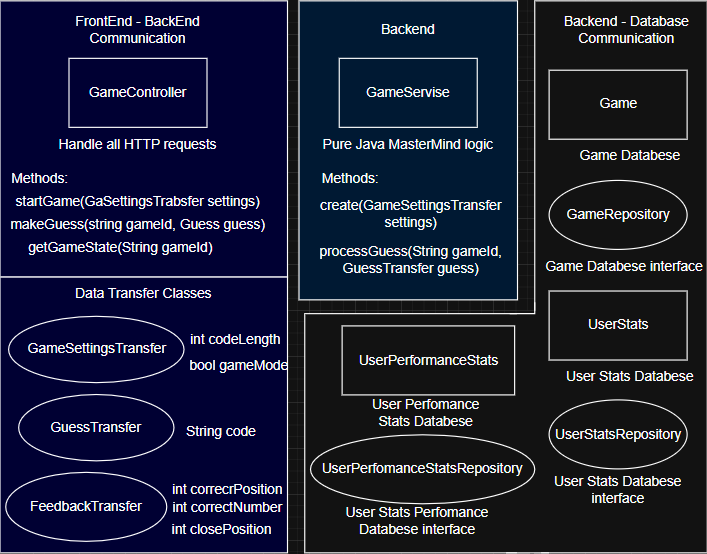
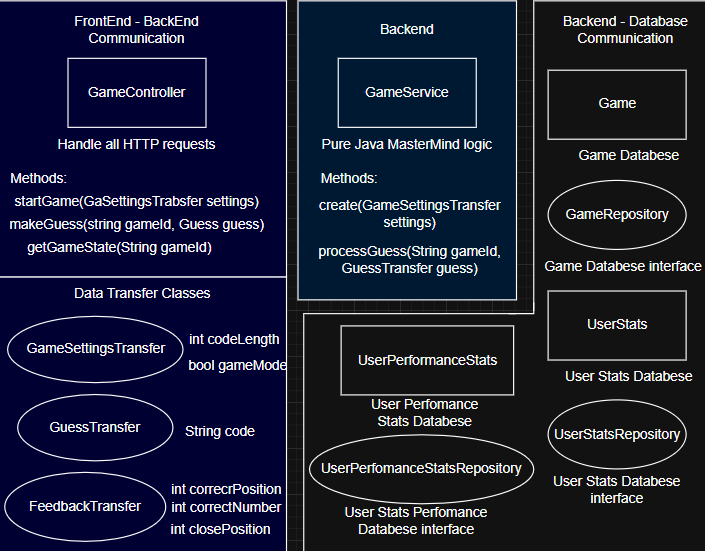
Data Transfer Classes

diff --git a/masterminddemo/src/main/java/com/mastermind/masterminddemo/GameService.java b/masterminddemo/src/main/java/com/mastermind/masterminddemo/GameService.java
@@ -4,13 +4,13 @@ import java.util.ArrayList;
 import java.util.Arrays;
 import java.util.List;
 
-public class Engine {
+public class GameService{
     private final int[] secretCode;
     private final int[] currentGuess;
     private final boolean specialMode;
     private final int codeLength;
 
-    public Engine(int length, boolean uniqueColors) {
+    public GameService(int length, boolean uniqueColors) {
         this.codeLength = length;
         this.specialMode = uniqueColors;
         this.secretCode = generateSecret();

diff --git a/masterminddemo/src/main/java/com/mastermind/masterminddemo/MasterminddemoApplication.java b/masterminddemo/src/main/java/com/mastermind/masterminddemo/MasterminddemoApplication.java
@@ -7,11 +7,7 @@ import org.springframework.boot.autoconfigure.SpringBootApplication;
 
 @SpringBootApplication
 public class MasterminddemoApplication {
-
 	public static void main(String[] args) {
 		SpringApplication.run(MasterminddemoApplication.class, args);
-
-		
 	}
-
 }

diff --git a/masterminddemo/src/main/java/com/mastermind/masterminddemo/GameController.java b/masterminddemo/src/main/java/com/mastermind/masterminddemo/GameController.java
@@ -4,7 +4,7 @@ import org.springframework.web.bind.annotation.GetMapping;
 import org.springframework.web.bind.annotation.RestController;
 
 @RestController
-public class UIController {
+public class GameController {
 
     @GetMapping("/")
     public String toString() {

diff --git a/masterminddemo/src/main/java/com/mastermind/masterminddemo/FeedbackTransfer.java b/masterminddemo/src/main/java/com/mastermind/masterminddemo/FeedbackTransfer.java
@@ -1,0 +1,7 @@
+package com.mastermind.masterminddemo;
+
+public record FeedbackTransfer(
+    int correcrPosition,
+    int correctNumber,
+    int closePosition
+) {}

diff --git a/masterminddemo/src/main/java/com/mastermind/masterminddemo/GameSettingsTransfer.java b/masterminddemo/src/main/java/com/mastermind/masterminddemo/GameSettingsTransfer.java
@@ -1,0 +1,6 @@
+package com.mastermind.masterminddemo;
+
+public record GameSettingsTransfer(
+    int codeLength,
+    boolean gameMode
+) {}

diff --git a/masterminddemo/src/main/java/com/mastermind/masterminddemo/GuessTransfer.java b/masterminddemo/src/main/java/com/mastermind/masterminddemo/GuessTransfer.java
@@ -1,0 +1,5 @@
+package com.mastermind.masterminddemo;
+
+public record GuessTransfer(
+    String code
+) {}

diff --git a/README.md b/README.md
@@ -55,6 +55,5 @@ It's a full-stack mobile application with:
 ## Java Classes
 
 ![Java Classes](java_classes.png)
-
 ## Database
  !["Database schema"](database.png)
